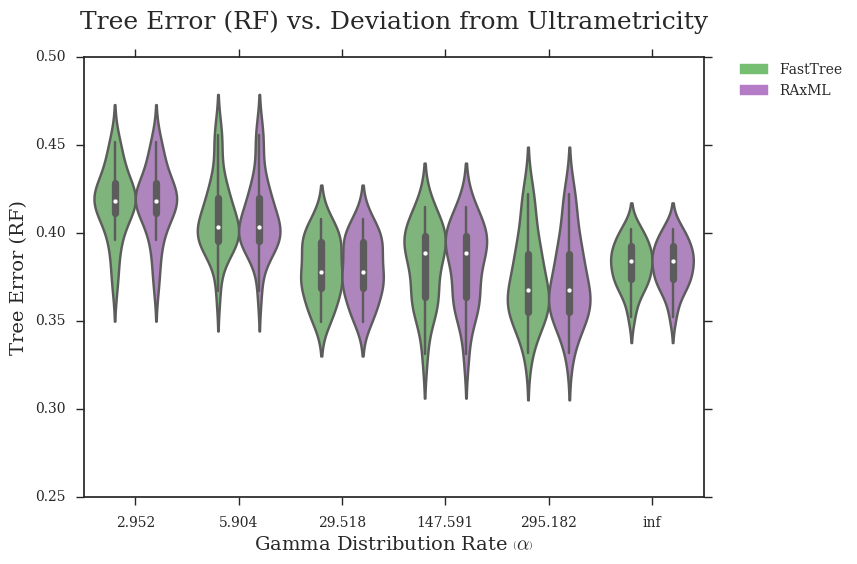
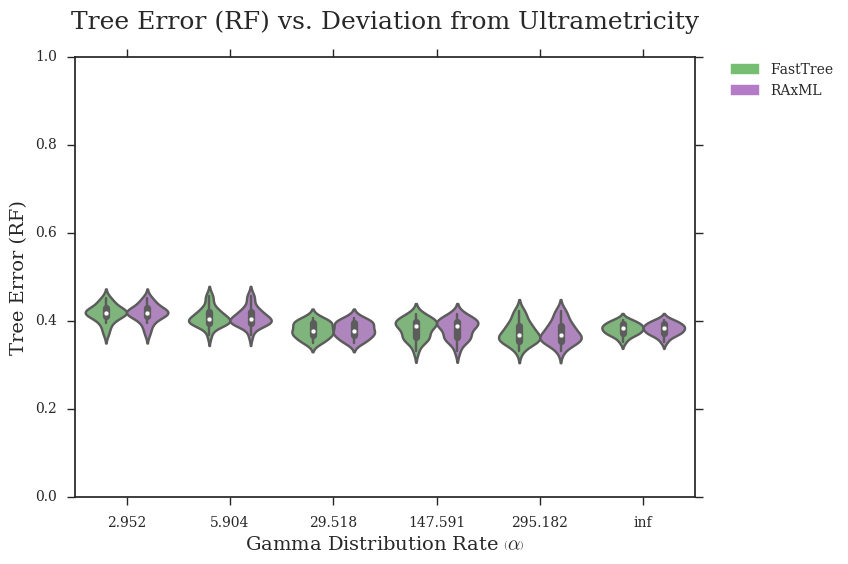
Fixed y-axis scaling

diff --git a/figures/scripts/6_raxml-likelihood-deviation-vs-parameters.py b/figures/scripts/6_raxml-likelihood-deviation-vs-parameters.py
@@ -17,6 +17,7 @@ sns.set_style("ticks")
 rcParams['font.family'] = 'serif'
 pal = {'fasttree':'#76BF72', 'raxml':'#B47CC7'}
 handles = [Patch(color=pal['fasttree'],label='FastTree'),Patch(color=pal['raxml'],label='RAxML')]
+axisY = np.asarray([i for i in range(-1000,1501,500)])
 
 # DATASETS
 # modifying r = lambdaA/lambdaB (with different lambda = lambdaA+lambdaB to keep expected branch length constant)
@@ -210,6 +211,8 @@ for i in range(len(r_fasttree['score'])):
     df['category'][currNum] = 'raxml'
 df = pd.DataFrame(df)
 ax = sns.violinplot(x='r',y='score',hue='category',data=df,order=x,palette=pal)
+plt.plot(np.linspace(-1,101,10),[0]*10,linestyle='--',color='#000000')
+plt.yticks(axisY); plt.ylim(axisY[0],axisY[-1])
 legend = plt.legend(handles=handles,bbox_to_anchor=(1.05, 1), loc=2, borderaxespad=0.)
 sns.plt.xlabel(r'$\log_{10}{r} = \log_{10}{\left(\frac{\lambda_A}{\lambda_B}\right)}\ \left(E(l_b)=0.298\right)$',fontsize=14)
 sns.plt.ylabel(r'RAxML Score Difference $\left(Inferred-True\right)$',fontsize=14)
@@ -233,6 +236,8 @@ for i in range(len(r2_fasttree['score'])):
     df['category'][currNum] = 'raxml'
 df = pd.DataFrame(df)
 ax = sns.violinplot(x='r',y='score',hue='category',data=df,order=x,palette=pal)
+plt.plot(np.linspace(-1,101,10),[0]*10,linestyle='--',color='#000000')
+plt.yticks(axisY); plt.ylim(axisY[0],axisY[-1])
 legend = plt.legend(handles=handles,bbox_to_anchor=(1.05, 1), loc=2, borderaxespad=0.)
 sns.plt.xlabel(r'$\log_{10}{r} = \log_{10}{\left(\frac{\lambda_A}{\lambda_B}\right)}\ \left(\lambda = \lambda_A + \lambda_B = 169\right)$',fontsize=14)
 sns.plt.ylabel(r'RAxML Score Difference $\left(Inferred-True\right)$',fontsize=14)
@@ -256,6 +261,8 @@ for i in range(len(l_fasttree['score'])):
     df['category'][currNum] = 'raxml'
 df = pd.DataFrame(df)
 ax = sns.violinplot(x='lambda',y='score',hue='category',data=df,order=x,palette=pal)
+plt.plot(np.linspace(-1,101,10),[0]*10,linestyle='--',color='#000000')
+plt.yticks(axisY); plt.ylim(axisY[0],axisY[-1])
 legend = plt.legend(handles=handles,bbox_to_anchor=(1.05, 1), loc=2, borderaxespad=0.)
 sns.plt.xlabel(r'$\lambda = \lambda_A + \lambda_B$',fontsize=14)
 sns.plt.ylabel(r'RAxML Score Difference $\left(Inferred-True\right)$',fontsize=14)
@@ -279,6 +286,8 @@ for i in range(len(k_fasttree['score'])):
     df['category'][currNum] = 'raxml'
 df = pd.DataFrame(df)
 ax = sns.violinplot(x='length',y='score',hue='category',data=df,order=x,palette=pal)
+plt.plot(np.linspace(-1,101,10),[0]*10,linestyle='--',color='#000000')
+plt.yticks(axisY); plt.ylim(axisY[0],axisY[-1])
 legend = plt.legend(handles=handles,bbox_to_anchor=(1.05, 1), loc=2, borderaxespad=0.)
 sns.plt.xlabel('Sequence Length',fontsize=14)
 sns.plt.ylabel(r'RAxML Score Difference $\left(Inferred-True\right)$',fontsize=14)
@@ -302,6 +311,8 @@ for i in range(len(g_fasttree['score'])):
     df['category'][currNum] = 'raxml'
 df = pd.DataFrame(df)
 ax = sns.violinplot(x='gammarate',y='score',hue='category',data=df,order=x,palette=pal)
+plt.plot(np.linspace(-1,101,10),[0]*10,linestyle='--',color='#000000')
+plt.yticks(axisY); plt.ylim(axisY[0],axisY[-1])
 legend = plt.legend(handles=handles,bbox_to_anchor=(1.05, 1), loc=2, borderaxespad=0.)
 sns.plt.xlabel(r'Gamma Distribution Rate $\left(\alpha\right)$',fontsize=14)
 sns.plt.ylabel(r'RAxML Score Difference $\left(Inferred-True\right)$',fontsize=14)

diff --git a/figures/scripts/3_tree-error-rf-vs-parameters.py b/figures/scripts/3_tree-error-rf-vs-parameters.py
@@ -17,6 +17,7 @@ sns.set_style("ticks")
 rcParams['font.family'] = 'serif'
 pal = {'simulated':'#597DBE', 'fasttree':'#76BF72', 'raxml':'#B47CC7', 'theoretical':'#D65F5F'}
 handles = [Patch(color=pal['fasttree'],label='FastTree'),Patch(color=pal['raxml'],label='RAxML')]
+axisY = np.asarray([i/10.0 for i in range(0,11,2)])
 
 # DATASETS
 # modifying r = lambdaA/lambdaB (with different lambda = lambdaA+lambdaB to keep expected branch length constant)
@@ -171,6 +172,7 @@ for i in range(len(r_fasttree['RF'])):
     df['category'][currNum] = 'raxml'
 df = pd.DataFrame(df)
 ax = sns.violinplot(x='r',y='RF',hue='category',data=df,order=x,palette=pal)
+plt.yticks(axisY); plt.ylim(axisY[0],axisY[-1])
 legend = plt.legend(handles=handles,bbox_to_anchor=(1.05, 1), loc=2, borderaxespad=0.)
 sns.plt.xlabel(r'$\log_{10}{r} = \log_{10}{\left(\frac{\lambda_A}{\lambda_B}\right)}\ \left(E(l_b)=0.298\right)$',fontsize=14)
 sns.plt.ylabel('Tree Error (RF)',fontsize=14)
@@ -194,6 +196,7 @@ for i in range(len(r2_fasttree['RF'])):
     df['category'][currNum] = 'raxml'
 df = pd.DataFrame(df)
 ax = sns.violinplot(x='r',y='RF',hue='category',data=df,order=x,palette=pal)
+plt.yticks(axisY); plt.ylim(axisY[0],axisY[-1])
 legend = plt.legend(handles=handles,bbox_to_anchor=(1.05, 1), loc=2, borderaxespad=0.)
 sns.plt.xlabel(r'$\log_{10}{r} = \log_{10}{\left(\frac{\lambda_A}{\lambda_B}\right)}\ \left(\lambda = \lambda_A + \lambda_B = 169\right)$',fontsize=14)
 sns.plt.ylabel('Tree Error (RF)',fontsize=14)
@@ -217,6 +220,7 @@ for i in range(len(l_fasttree['RF'])):
     df['category'][currNum] = 'raxml'
 df = pd.DataFrame(df)
 ax = sns.violinplot(x='lambda',y='RF',hue='category',data=df,order=x,palette=pal)
+plt.yticks(axisY); plt.ylim(axisY[0],axisY[-1])
 legend = plt.legend(handles=handles,bbox_to_anchor=(1.05, 1), loc=2, borderaxespad=0.)
 sns.plt.xlabel(r'$\lambda = \lambda_A + \lambda_B$',fontsize=14)
 sns.plt.ylabel('Tree Error (RF)',fontsize=14)
@@ -240,6 +244,7 @@ for i in range(len(k_fasttree['RF'])):
     df['category'][currNum] = 'raxml'
 df = pd.DataFrame(df)
 ax = sns.violinplot(x='length',y='RF',hue='category',data=df,order=x,palette=pal)
+plt.yticks(axisY); plt.ylim(axisY[0],axisY[-1])
 legend = plt.legend(handles=handles,bbox_to_anchor=(1.05, 1), loc=2, borderaxespad=0.)
 sns.plt.xlabel('Sequence Length',fontsize=14)
 sns.plt.ylabel('Tree Error (RF)',fontsize=14)
@@ -263,6 +268,7 @@ for i in range(len(g_fasttree['RF'])):
     df['category'][currNum] = 'raxml'
 df = pd.DataFrame(df)
 ax = sns.violinplot(x='gammarate',y='RF',hue='category',data=df,order=x,palette=pal)
+plt.yticks(axisY); plt.ylim(axisY[0],axisY[-1])
 legend = plt.legend(handles=handles,bbox_to_anchor=(1.05, 1), loc=2, borderaxespad=0.)
 sns.plt.xlabel(r'Gamma Distribution Rate $\left(\alpha\right)$',fontsize=14)
 sns.plt.ylabel('Tree Error (RF)',fontsize=14)
